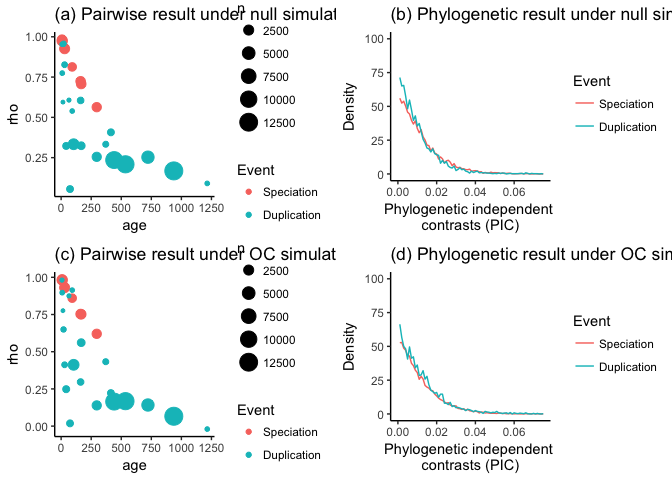
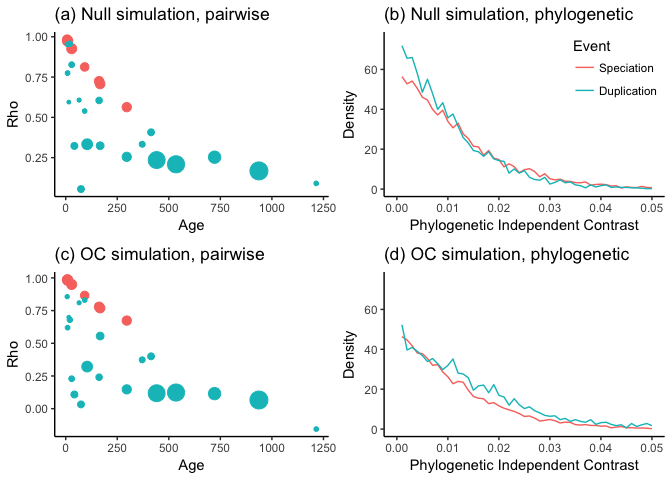
plot formatting, increased dup_adjust to 5

diff --git a/manuscript.md b/manuscript.md
@@ -79,13 +79,11 @@ We next examined the possibility that ascertainment biases were differentially i
 
 > Figure XX\_KMRR\_Pairwise | This figures demonstrates that the pairwise analyses presented in Figure 2a of KMRR can be reproduced with the subset of data we consider here and our own independent code base. Each circle indicates the Tau Pearson correlation (rho) for a set of pairwise comparisons annotated with a specific node name of a given age and event type, *i.e.*, whether the divergence at that nodes was due to speciation (giving rise to orthologs) or duplication (giving rise to paralogs). Following KMRR Figure 2a, this figure shows only the comparisons that include a human sequence.
 
-In order to better understand why our phylogenetic analysis supports a different conclusion (*i.e.*, no support for the ortholog conjecture) than the published analysis of KMRR<sup>11</sup> (*i.e.*, strong support for the ortholog conjecture), we first checked to make sure we could reproduce their result based on pairwise analyses. This is important since we are only looking at at a subset of the data they considered, the Brawand *et al.* 2011<sup>20</sup> dataset for gene trees that could be successfully time calibrated. We can replicate their result - we find a higher Tau correlation between orthologs (R=0.766) than between paralogs (R=0.401).
+In order to better understand why our phylogenetic analysis supports a different conclusion (*i.e.*, no support for the ortholog conjecture) than the published analysis of KMRR<sup>11</sup> (*i.e.*, strong support for the ortholog conjecture), we first checked to make sure we could reproduce their result based on pairwise analyses. This is important since we are only looking at at a subset of the data they considered, the Brawand *et al.* 2011<sup>20</sup> dataset for gene trees that could be successfully time calibrated. In their Figure 1, they present a higher Tau correlation coefficient between ortholog pairs than paralog ortholog pairs. We find the same here, with correlation coefficients of R=0.766 between ortholog pairs and 0.401 for paralog pairs.
 
 Why is it that pairwise methods and phylogenetic methods lead to opposite conclusions? The reason is that they describe different things. Pairwise comparisons describe contemporary patterns, while phylogenetic methods infer historical processes<sup>10</sup>. There need not be a different process of evolution following speciation and duplication for paralogs to be more different than orthologs. This could be due to the structure of the gene phylogenies. If paralogs tend to be more distantly related to each other than orthologs, then there would be more time for differences to accumulate even if the rate of change is the same between the two. This is, in fact, the case for these data. While the mean distance between orthologs is 305.3 My, the mean distance between paralogs is 1539.7 My. As described above, this is because the oldest speciation event is by definition the most recent common ancestor of the species included in the study, but many gene families underwent duplication before this time.
 
 To test the hypothesis that distantly related paralogs arising from these older duplication events (Supplementary Figure XXAscertainment a) are the reason for the lower correlation of Tau between paralogs than between orthologs, we removed them. When we consider only the paralogs that arise from duplication events the same age or younger than the oldest speciation event (Supplementary Figure XXAscertainment b), the observed pattern is very different. The correlation of Tau between these shallower paralog pairs, R=0.673, is much stronger than for the correlation between all paralog pairs, R=0.401. This is much closer to the ortholog correlation, which has R=0.766.
-
-The reason that paralog pairs have Tau values that are more different than ortholog pairs is that they tend to be more distantly related, not because there are different rates of Tau evolution following duplication and speciation events. This means that having information on whether two genes are orthologs or paralogs provides little added information about expression beyond knowing how distantly related the two genes are. This has several implications. It is an example of the limitations of the concepts of orthology and paralogy<sup>27</sup>. These terms can have straightforward meaning in small gene trees with simple duplication/speciation histories, but the utility of the terms breaks down on larger more complex gene trees. Orthology and paralogy are annotations on the tips of the tree that are derived from the inferred structure of the tree and history of duplication and speciation at internal tree nodes. In this sense, orthology and paralogy are statements about the internals of the tree that are distilled into statements at the tips of the tree. Much is lost in the process, though. These are the same pre-computed trees we use in our phylogenetic re-analyses of their study. For most questions it is much more direct to focus on the structure of the tree and the inferred processes within the tree, such as which internal nodes are duplication or speciation events and how much change occurs along the branches. In this case, KMRR<sup>11</sup> relied on orthology and paralogy annotations that are derived from the inferred duplication and speciation history on gene phylogenies<sup>24</sup>.
 
 ![XX\_PIC\_VAR](manuscript_files/figure-markdown_github/simulations_plot-1.png)
 
@@ -93,9 +91,11 @@ The reason that paralog pairs have Tau values that are more different than ortho
 
 We simulated a data set under the null model that tau evolves at the same rate following duplication and speciation events. Under the null model, pairwise analysis results (Figure XXSim a) are very similar as for the observed data, with higher rho for orthologs (0.7395087) than paralogs (0.2497975). In the phylogenetic analysis of the null simulation, contrasts show similar divergence following speciation and duplication (Figure XXSim b) and does not reject the null hypothesis (Wilcoxon p=0.9695727).
 
-We next simulated a data set under the ortholog conjecture, where the rate of evolution of Tau following duplication was 2 fold the rate following speciation. The results of this heterogeneous model are nearly indistinguishable from the null model (Figure XXSim c), and also have a higher rho for orthologs (0.7770009) than paralogs (0.1774267). In the phylogenetic analysis of the ortholog conjecture simulation, contrasts XX (Figure XXSim c) and XX (Wilcoxon p=4.915621410^{-28}).
+We next simulated a data set under the ortholog conjecture, where the rate of evolution of Tau following duplication was 5 fold the rate following speciation. The results of this heterogeneous model are nearly indistinguishable from the null model (Figure XXSim c), and also have a higher rho for orthologs (0.7986038) than paralogs (0.1365938). In the phylogenetic analysis of the ortholog conjecture simulation, contrasts XX (Figure XXSim c) and XX (Wilcoxon p=3.652384210^{-118}).
 
 #### Implications for the ortholog conjecture
+
+We find that having information on whether two genes are orthologs or paralogs provides little added information about expression beyond knowing how distantly related the two genes are. This has several implications. It is an example of the limitations of the concepts of orthology and paralogy<sup>27</sup>. These terms can have straightforward meaning in small gene trees with simple duplication/speciation histories, but the utility of the terms breaks down on larger more complex gene trees. Orthology and paralogy are annotations on the tips of the tree that are derived from the inferred structure of the tree and history of duplication and speciation at internal tree nodes. In this sense, orthology and paralogy are statements about the internals of the tree that are distilled into statements at the tips of the tree. Much is lost in the process, though. These are the same pre-computed trees we use in our phylogenetic re-analyses of their study. For most questions it is much more direct to focus on the structure of the tree and the inferred processes within the tree, such as which internal nodes are duplication or speciation events and how much change occurs along the branches. In this case, KMRR<sup>11</sup> relied on orthology and paralogy annotations that are derived from the inferred duplication and speciation history on gene phylogenies<sup>24</sup>.
 
 There has been considerable recent interest in, and controversy about, the ortholog conjecture<sup>13,14,23,28</sup>. Our results are consistent with multiple studies that have not found support for the ortholog conjecture<sup>13,23,29</sup>. Another study found only slightly greater similarity between orthologs than paralogs<sup>30</sup>.
 
@@ -147,7 +147,7 @@ These analyses illustrate how important it is to not conflate evolutionary patte
 Methods
 -------
 
-All files needed to re-execute the analyses presented in this document are available at <https://github.com/caseywdunn/comparative_expression_2017>. The most recent commit at the time of the analysis presented here was cc606989973192aee96fe9ca0a3f357a6bacfe9a. See the `readme.md` file in this repository for more information on the contents of the source file and how to re-execute them.
+All files needed to re-execute the analyses presented in this document are available at <https://github.com/caseywdunn/comparative_expression_2017>. The most recent commit at the time of the analysis presented here was 6df9645a620fe45c06ad2a56fa44c80811a853d6. See the `readme.md` file in this repository for more information on the contents of the source file and how to re-execute them.
 
 ### KMRR reanalysis
 
